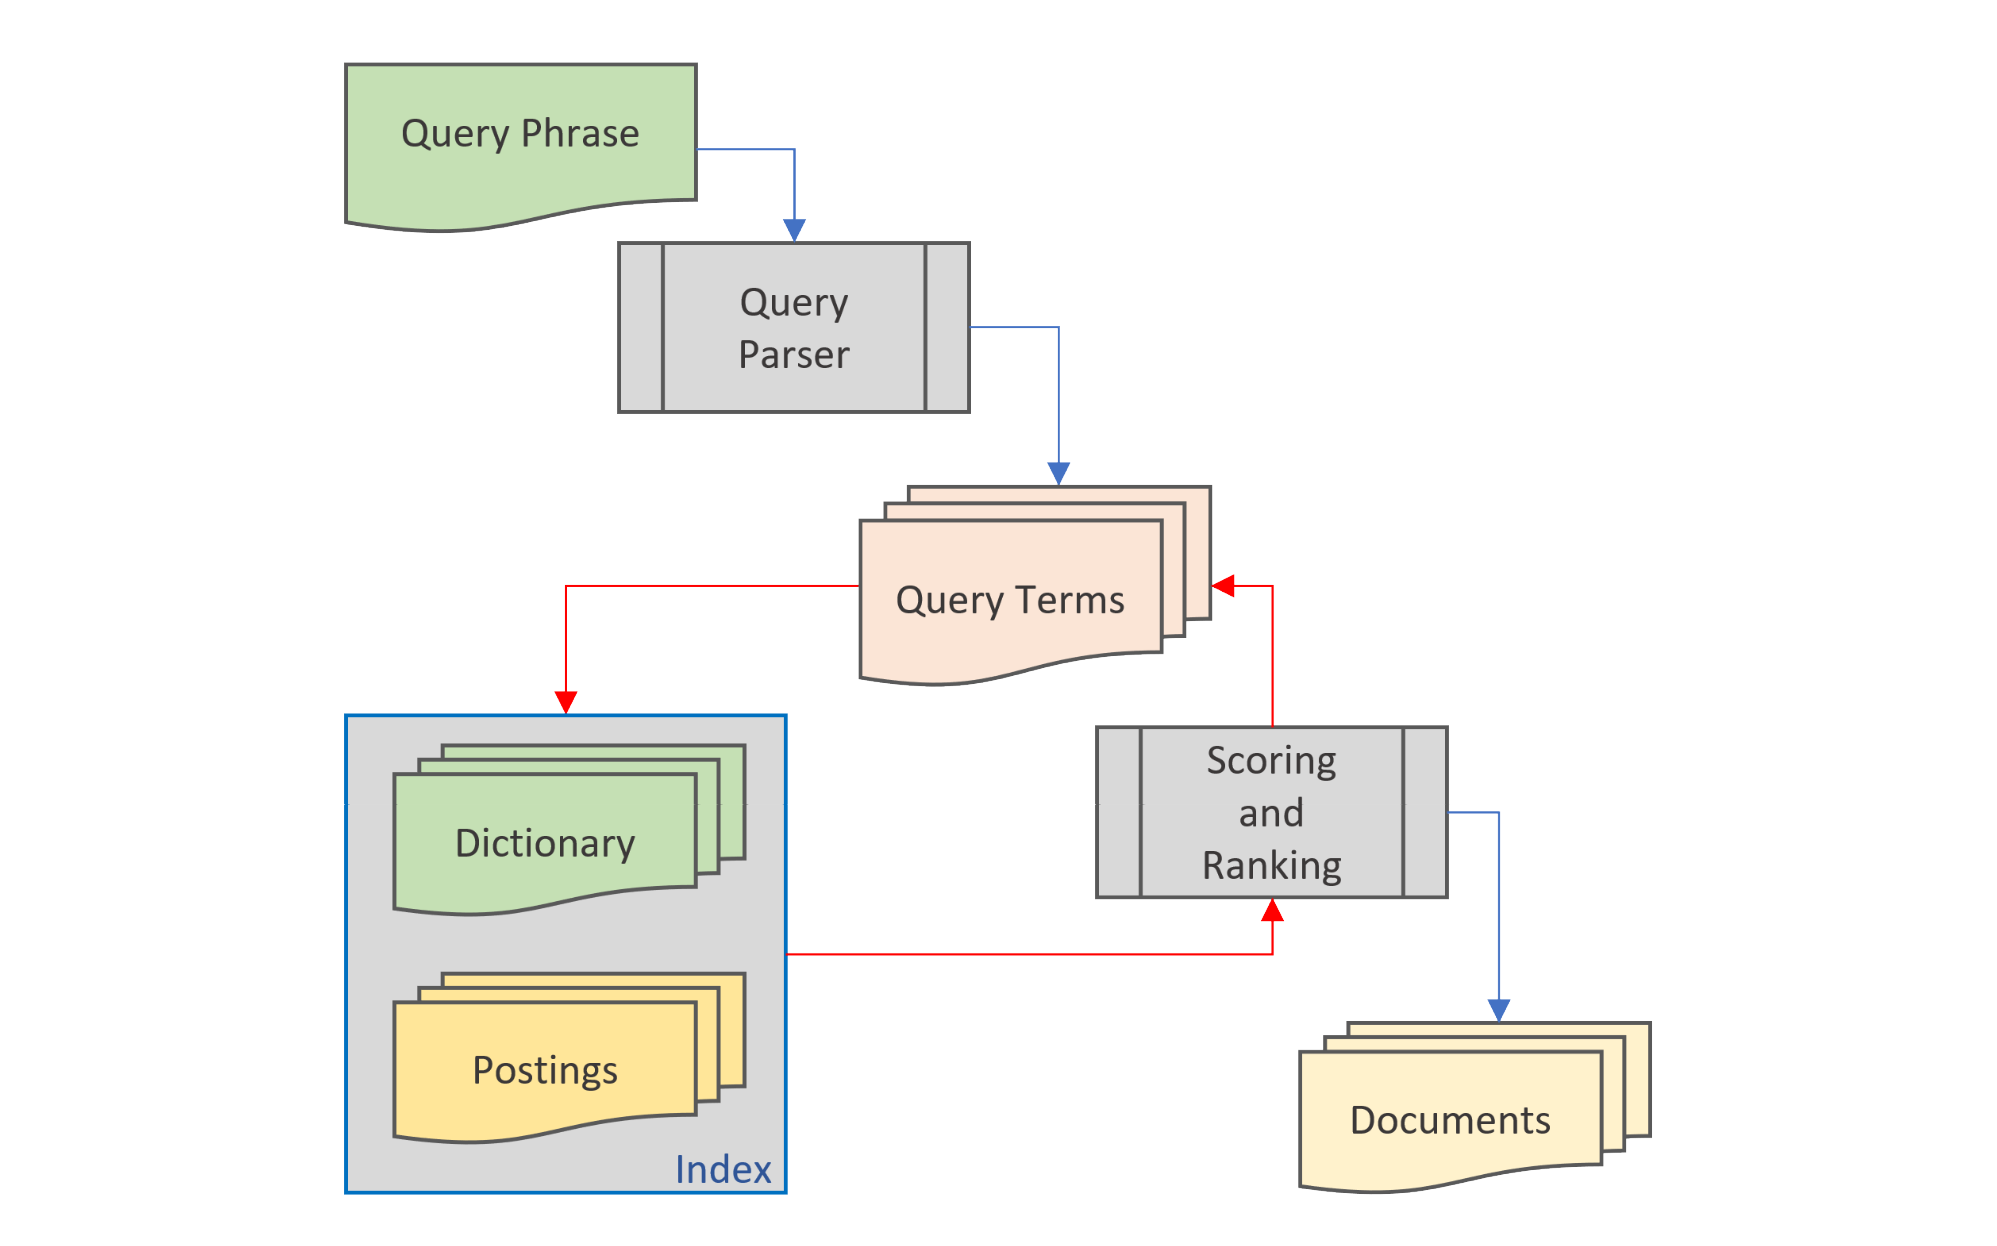
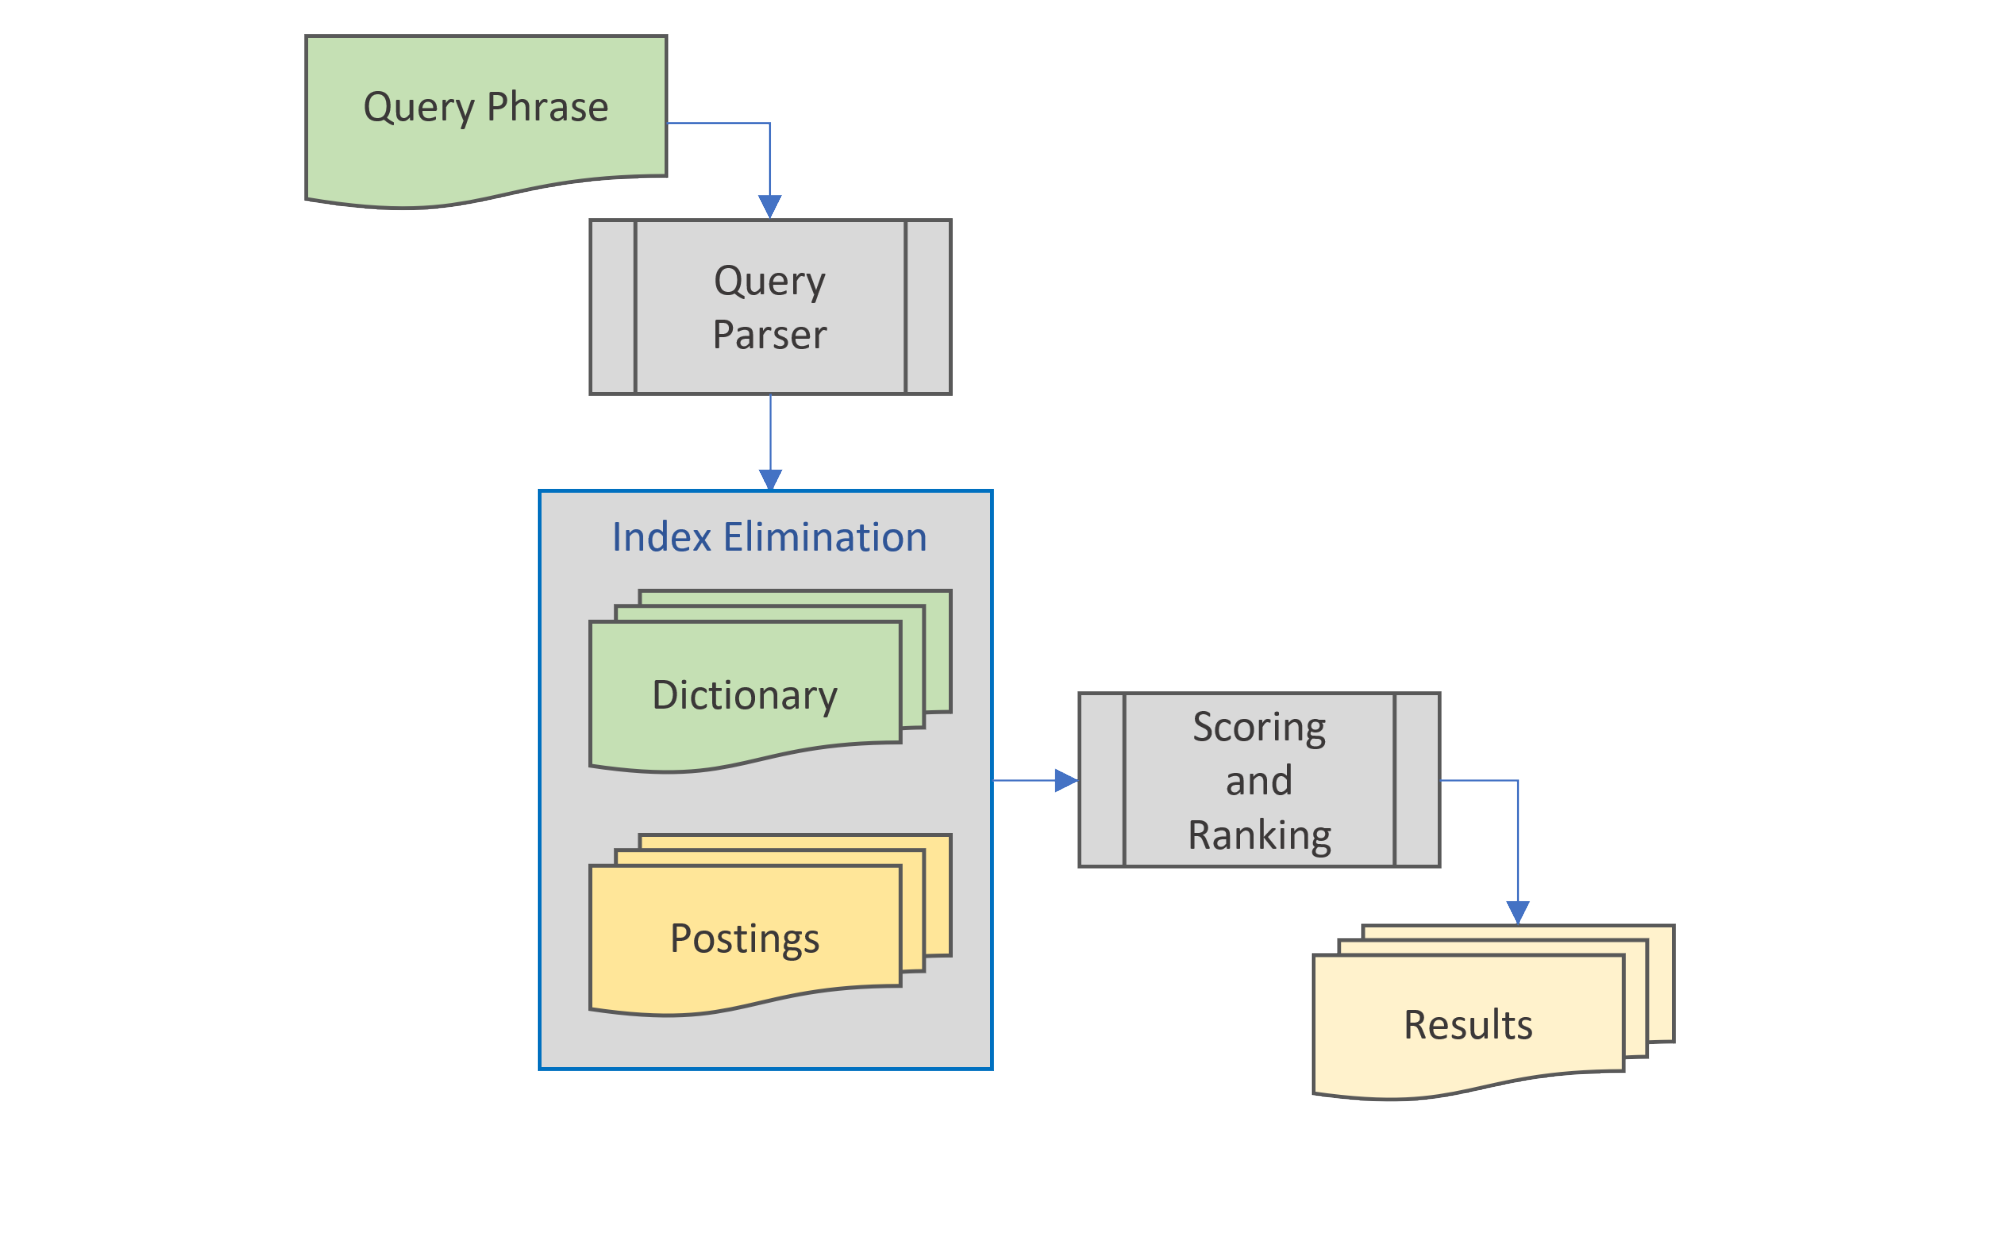
version: 0.0.1-beta.6

Changed region(s): [[0.1552, 0.366, 0.8383, 0.9759], [0.1552, 0.0, 0.4967, 0.3355]]

diff --git a/lib/src/scoring/document.dart b/lib/src/scoring/document.dart
@@ -29,7 +29,7 @@ abstract class Document {
   }
 
   /// Returns an updated [Document] after inserting the [term] in [terms] and
-  /// overwriting the [termFrequencies] and [termFieldPostings] for [term].
+  /// overwriting the [termFrequencies] and [termZonePostings] for [term].
   Document setTermPostings(Term term, DocumentPostingsEntry entry);
 
   /// Returns an updated [Document] after re-calculating [termPairWeight].
@@ -54,8 +54,8 @@ abstract class Document {
   /// Returns the frequency of [term] in the document.
   Ft tFt(Term term);
 
-  /// A hashmap of [Term]s to [FieldPostings] for the document.
-  Map<Term, FieldPostings> get termFieldPostings;
+  /// A hashmap of [Term]s to [ZonePostings] for the document.
+  Map<Term, ZonePostings> get termZonePostings;
 
   /// Returns a weighting that reflects the number of term pairs that are
   /// matched in a document.  The weight is calculated as follows:
@@ -90,7 +90,7 @@ class _DocumentImpl implements Document {
   Document setPoximityWeight(List<QueryTerm> queryTerms) {
     final proximityWeight = 0.0;
     //TODO: implement setProximityWeight
-    return _DocumentImpl(docId, termFieldPostings, termFrequencies, terms,
+    return _DocumentImpl(docId, termZonePostings, termFrequencies, terms,
         termPairWeight, proximityWeight);
   }
 
@@ -106,7 +106,7 @@ class _DocumentImpl implements Document {
         matchedPhrases.isNotEmpty) {
       termPairWeight = matchedPhrases.length / queryPhrases.length;
     }
-    return _DocumentImpl(docId, termFieldPostings, termFrequencies, terms,
+    return _DocumentImpl(docId, termZonePostings, termFrequencies, terms,
         termPairWeight, proximityWeight);
   }
 
@@ -121,14 +121,14 @@ class _DocumentImpl implements Document {
     final docId = entry.key;
     // First check the entry is for this document
     if (docId != this.docId) return this;
-    // Make a copy of termFieldPostings
-    final termFieldPostings =
-        Map<String, FieldPostings>.from(this.termFieldPostings);
+    // Make a copy of termZonePostings
+    final termZonePostings =
+        Map<String, ZonePostings>.from(this.termZonePostings);
     // make a copy of termFrequencies
     final Map<Term, Ft> termFrequencies =
         Map<Term, Ft>.from(this.termFrequencies);
     // overwrite/insert the field postings for term
-    termFieldPostings[term] = entry.value;
+    termZonePostings[term] = entry.value;
     // overwrite/insert the frequency for term
     termFrequencies[term] = entry.value.tFt;
 
@@ -136,16 +136,16 @@ class _DocumentImpl implements Document {
     final terms = termFrequencies.keys.toList();
     // sort the terms alphabetically
     terms.sort(((a, b) => a.compareTo(b)));
-    // return a new _DocumentImpl wiht the updated termFieldPostings and
+    // return a new _DocumentImpl wiht the updated termZonePostings and
     // termFrerquencies
-    return _DocumentImpl(docId, termFieldPostings, termFrequencies, terms,
+    return _DocumentImpl(docId, termZonePostings, termFrequencies, terms,
         termPairWeight, proximityWeight);
   }
 
   @override
   final DocId docId;
 
-  const _DocumentImpl(this.docId, this.termFieldPostings, this.termFrequencies,
+  const _DocumentImpl(this.docId, this.termZonePostings, this.termFrequencies,
       this.terms, this.termPairWeight, this.proximityWeight);
 
   @override
@@ -160,7 +160,7 @@ class _DocumentImpl implements Document {
   }
 
   @override
-  final Map<FieldName, FieldPostings> termFieldPostings;
+  final Map<Zone, ZonePostings> termZonePostings;
 
   @override
   final Map<Term, Ft> termFrequencies;

diff --git a/test/test_utils.dart b/test/test_utils.dart
@@ -2,23 +2,31 @@
 // BSD 3-Clause License
 // All rights reserved
 
-// ignore: unused_import
-// import 'package:free_text_search/free_text_search.dart';
 import 'package:free_text_search/src/_index.dart';
 import 'data/sample_news.dart';
+import 'package:rxdart/rxdart.dart';
 
-class TestIndex extends InMemoryIndexer {
-  TestIndex._() : super(analyzer: TextAnalyzer());
+class TestIndex extends TextIndexerBase {
+  TestIndex._(); // : super(analyzer: TextAnalyzer());
 
+  @override
+  final index = InMemoryIndex(
+      dictionary: {}, postings: {}, analyzer: TextAnalyzer(), zones: zoneMap);
   static Future<TestIndex> hydrate() async {
     final indexer = TestIndex._();
-    await indexer.indexCollection(indexer.collection, indexer.fields);
+    await indexer.indexCollection(indexer.collection);
     return indexer;
   }
 
+  /// The in-memory term dictionary for the indexer.
+  Dictionary get dictionary => (index as InMemoryIndex).dictionary;
+
+  /// The in-memory postings hashmap for the indexer.
+  Postings get postings => (index as InMemoryIndex).postings;
+
   final JsonCollection collection = sampleNews;
 
-  final List<FieldName> fields = ['name', 'description', 'hashTags'];
+  static const zoneMap = {'name': 1.0, 'description': 0.5, 'hashTags': 2.0};
 
   static void printQueryTerms(Iterable<QueryTerm> queryTerms) {
     for (final qt in queryTerms) {
@@ -46,4 +54,13 @@ class TestIndex extends InMemoryIndexer {
     print('=================================================================='
         '==================================================================');
   }
+
+  @override
+  Stream<Map<DocId, JSON>>? get collectionStream => null;
+
+  @override
+  final controller = BehaviorSubject<Postings>();
+
+  @override
+  Stream<MapEntry<DocId, JSON>>? get documentStream => null;
 }

diff --git a/test/free_text_search_test.dart b/test/free_text_search_test.dart
@@ -16,7 +16,7 @@ void main() {
 
   const phrase = 'Tesla EV battery technology';
 
-  const fields = ['name', 'description', 'hashTags'];
+  // const fields = ['name', 'description', 'hashTags'];
 
   group('FreeTextSearch', () {
     setUp(() {
@@ -34,16 +34,14 @@ void main() {
       // create the in-memory dictionary and postings for sampleNews
       // await indexer.indexCollection(sampleNews, fields);
 
-      final dictionaryTerms = indexer.index.dictionary.terms;
+      final dictionaryTerms = indexer.dictionary.terms;
 
       final andTerms = queryTerms.andTerms;
       // Get the document ids of those postings that contain ANY of the terms.
-      indexer
-          .printDocuments(indexer.index.postings.containsAny(queryTerms.terms));
+      indexer.printDocuments(indexer.postings.containsAny(queryTerms.terms));
 
       // Get the document ids of those postings that contain ALL the terms.
-      indexer
-          .printDocuments(indexer.index.postings.containsAll(andTerms.terms));
+      indexer.printDocuments(indexer.postings.containsAll(andTerms.terms));
     });
 
     test('SearchResultScorer: championList', () async {

diff --git a/lib/src/free_text_search.dart b/lib/src/free_text_search.dart
@@ -22,7 +22,7 @@ abstract class FreeTextSearch {
   /// - [index] is an inverted, positional, zoned index on a collection of
   ///   documents that is queried; and
   /// - [queryParser] returns a [FreeTextQuery] from a searh phrase.
-  factory FreeTextSearch(InvertedPositionalZoneIndex index) {
+  factory FreeTextSearch(InvertedIndex index) {
     final queryParser = QueryParser(
         configuration: index.analyzer.configuration,
         tokenFilter: index.analyzer.tokenFilter);
@@ -34,7 +34,7 @@ abstract class FreeTextSearch {
 
   /// An an inverted, positional, zoned index on a collection of documents that
   /// is queried.
-  InvertedPositionalZoneIndex get index;
+  InvertedIndex get index;
 
   /// Returns a list of [SearchResult] instances in descending order of
   /// relevance to [phrase].
@@ -62,7 +62,7 @@ class _FreeTextSearchImpl implements FreeTextSearch {
   }
 
   @override
-  final InvertedPositionalZoneIndex index;
+  final InvertedIndex index;
 
   @override
   final QueryParser queryParser;

diff --git a/lib/src/scoring/postings_scoring_extensions.dart b/lib/src/scoring/postings_scoring_extensions.dart
@@ -5,11 +5,11 @@
 import 'package:free_text_search/src/_index.dart';
 import 'dart:math';
 
-/// Extension methods on a collection of [FieldPostings].
-extension FieldPostingsExtension on FieldPostings {
+/// Extension methods on a collection of [ZonePostings].
+extension FieldPostingsExtension on ZonePostings {
   //
 
-  /// Returns the term frequncy in a [FieldPostings] instance.
+  /// Returns the term frequncy in a [ZonePostings] instance.
   Ft get tFt {
     var tFt = 0;
     for (final entry in values) {

diff --git a/README.md b/README.md
@@ -6,7 +6,7 @@ All rights reserved.
 
 # free_text_search
 
-Search an inverted positional index and return ranked references to documents relevant to the search phrase.
+Search a text index and return ranked references to documents relevant to a search phrase.
 
 *THIS PACKAGE IS IN BETA DEVELOPMENT AND SUBJECT TO DAILY BREAKING CHANGES.*
 
@@ -21,17 +21,37 @@ Skip to section:
 
 ## Overview
 
-The components of this library:
-* parse a free-text phrase with [query modifiers](#querytermmodifier-enumeration) to a query; 
-* search the `dictionary` and `postings` of a text `index` for the query [terms](#queryterm-class); 
-* perform iterative scoring and ranking of the returned dictionary entries and postings; and 
-* return ranked references to documents relevant to the search phrase.
+This library is intended for applications that are part of an information retrieval system
+with the following components:
 
-Query phrases can include [modifiers](#query-modifiers) broadly consistent with Google search modifiers. 
+* a [text analyzer](https://pub.dev/packages/text_analysis) that extracts tokens from text for use in full-text search queries and indexes (`tokenizer`);
+* a [text indexer](https://pub.dev/packages/text_indexing) that creates an [inverted positional index](https://pub.dev/packages/text_indexing) for a collection of text documents (the `inverted index`); 
+* a [query parser](#queryparser) that parses a free text query into tokens using a `tokenizer` while extracting the `query term modifiers` for each
+token;
+* tools for performing [index elimination](#index-elimination) to reduce the number of results returned from the `index` (if too many results are found); and
+* a `scoring and ranking` tool that iterates over the results to compute a score for each document that enumerates how well it matches the search phrase.
+
+This library provides the [query parser](#queryparser), [index elimination tools](#index-elimination) and a [scoring and ranking module](#scoring-and-ranking).
+
+Refer to the [references](#references) to learn more about information retrieval systems and the theory behind this library.
+
+### Free Text Search Workflow
 
 ![Free text search overview](https://github.com/GM-Consult-Pty-Ltd/free_text_search/raw/main/assets/images/free_text_search.png?raw=true?raw=true "Free text search overview")
 
-Refer to the [references](#references) to learn more about information retrieval systems and the theory behind this library.
+* parse a free-text phrase with [query modifiers](#querytermmodifier-enumeration) to a query; 
+* retrieves `postings` for the query [terms](#queryterm-class) from an inverted index; 
+
+* perform iterative scoring and ranking of the returned dictionary entries and postings; and 
+* return ranked references to documents relevant to the search phrase.
+
+### Query Parser
+
+### Index Elimination
+
+### Scoring and Ranking
+
+
 
 ## Usage
 
